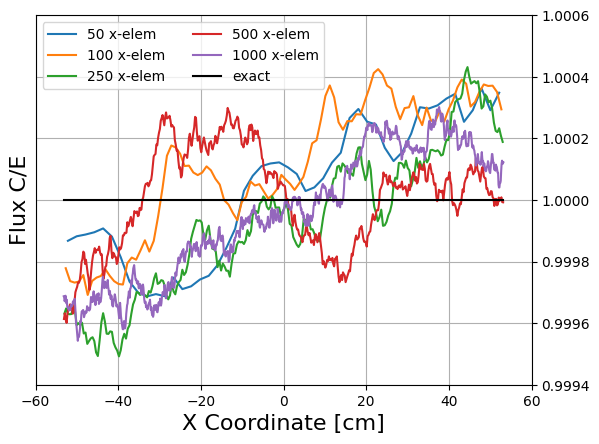
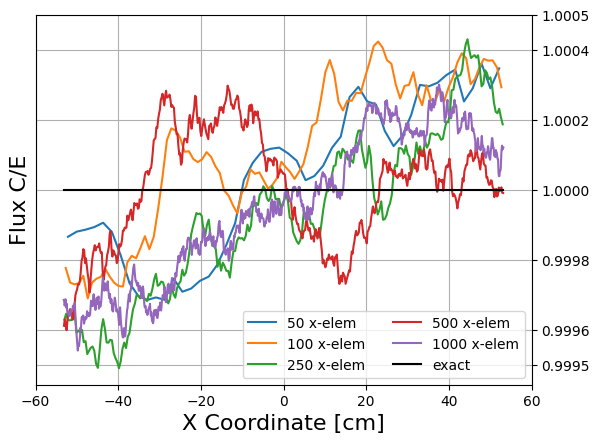
changed bounds in C/E since they got tighter

diff --git a/simulations/more_active_batches/restarts/reviz/visualize_results_flux_only.py b/simulations/more_active_batches/restarts/reviz/visualize_results_flux_only.py
@@ -3,6 +3,7 @@ import numpy as np
 import matplotlib.pyplot as plt
 from matplotlib import ticker as mtick
 import pandas as pd
+import scipy.stats as stats
 
 # mesh element sizes that will be used to iterate through all cases
 n_elems = np.array([50,100,250,500,1000])
@@ -135,7 +136,7 @@ for n in n_elems:
     # plt.errorbar(xx[n],ratios_flux_num_to_analy[n],yerr=two_sigma_r[n],marker = '|',fmt='none',elinewidth=0.25,capsize=3,capthick=1)
 plt.plot(xx[n],ones[n],'k',label="exact")
 plt.xticks([-60,-40,-20,0,20,40,60])
-plt.yticks([1-0.6e-3,1-0.4e-3,1-0.2e-3,1,1+0.2e-3,1+0.4e-3,1+0.6e-3])
+plt.yticks([1-0.5e-3,1-0.4e-3,1-0.2e-3,1,1+0.2e-3,1+0.4e-3,1+0.5e-3])
 plt.xlabel("X Coordinate [cm]",fontsize=16)
 plt.ylabel(r"Flux C/E",fontsize=16)
 plt.gca().yaxis.tick_right()
